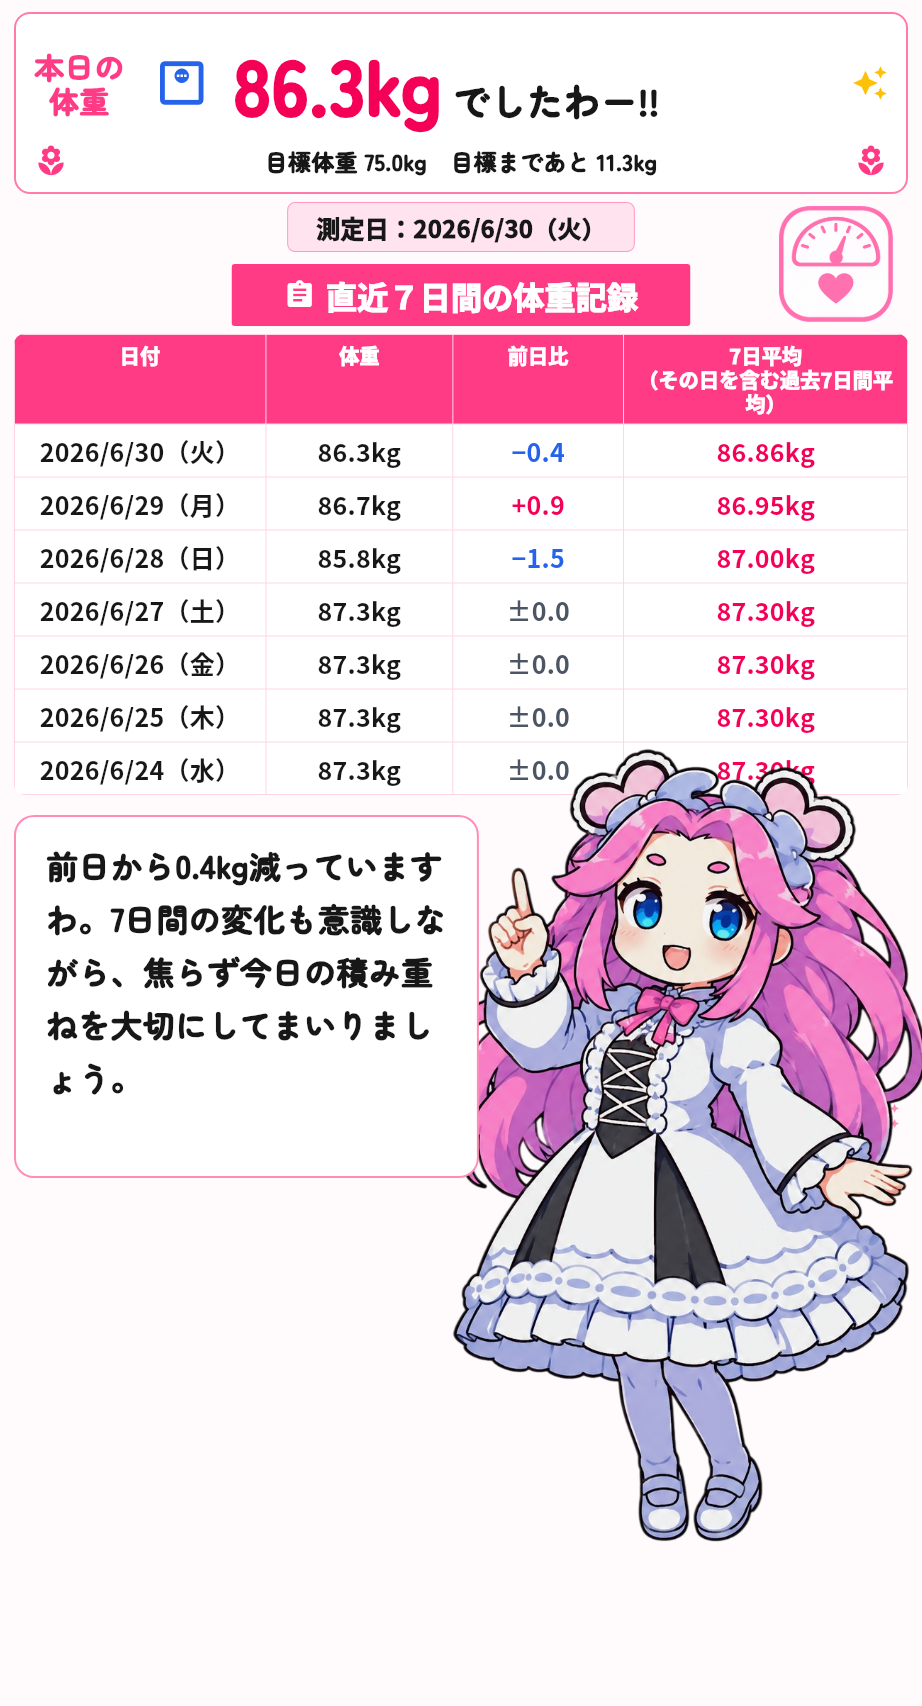
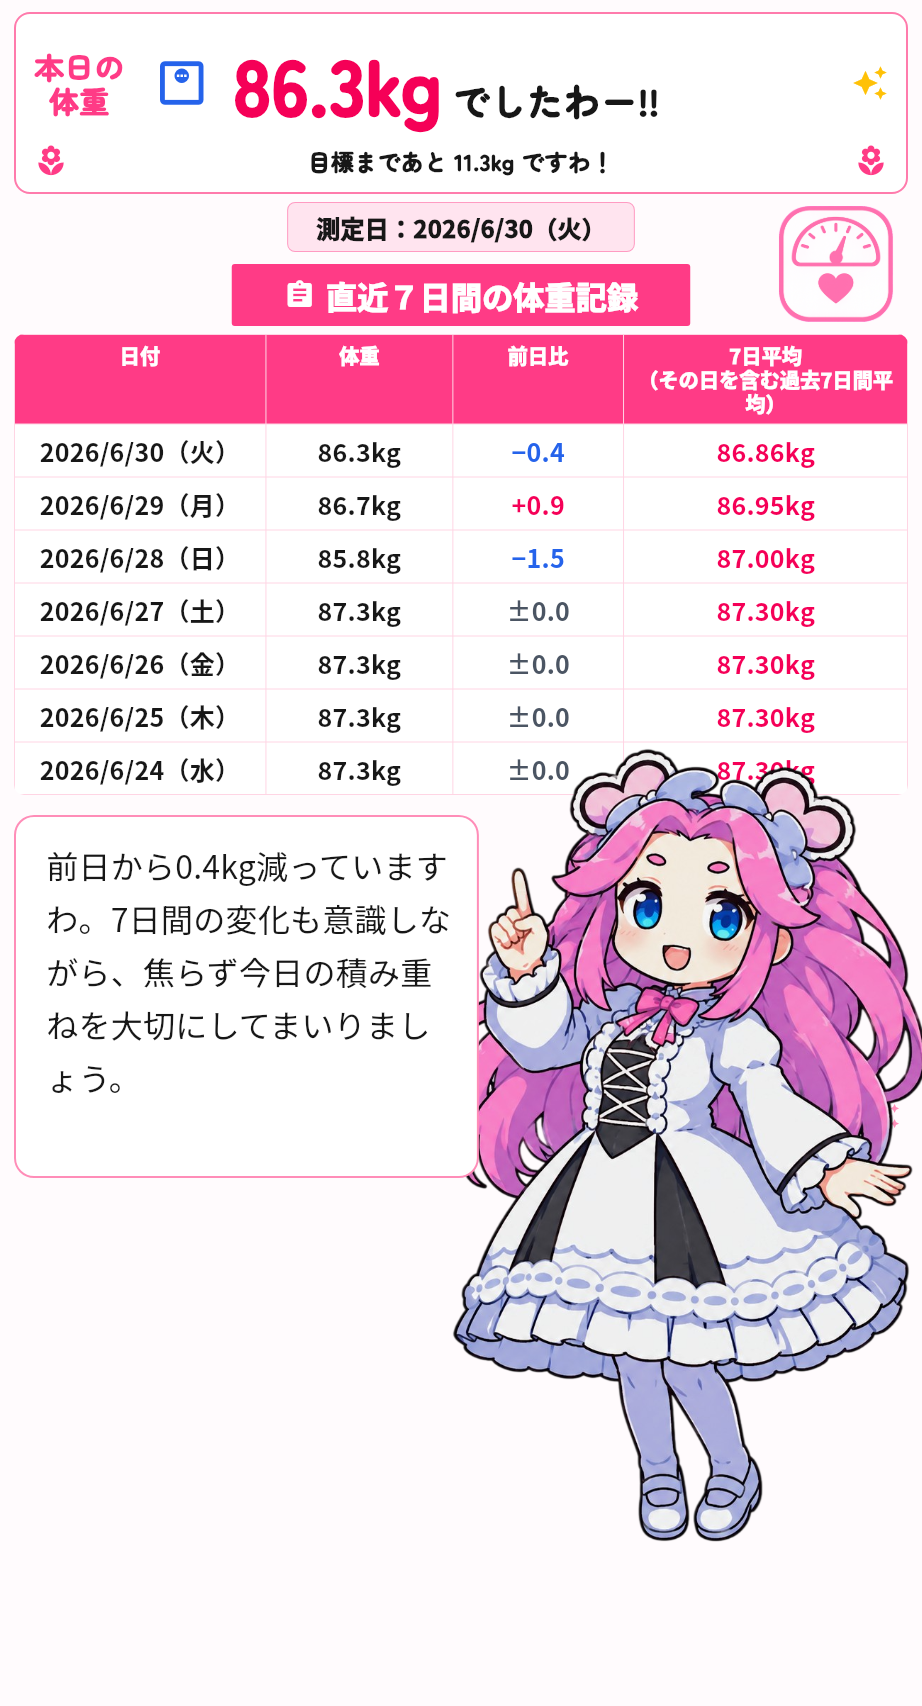
Use regular text for report comments

Changed region(s): [[0.0607, 0.4971, 0.4859, 0.6524], [0.3037, 0.0621, 0.6377, 0.1243], [0.6681, 0.0932, 0.6985, 0.1243]]

diff --git a/test/home_screen_golden_test.dart b/test/home_screen_golden_test.dart
@@ -445,8 +445,8 @@ void main() {
       'assets/images/character_report.png',
     );
     expect(find.text('本日の\n体重'), findsOneWidget);
-    expect(find.textContaining('目標体重 75.0kg'), findsOneWidget);
-    expect(find.textContaining('目標まであと 11.3kg'), findsOneWidget);
+    expect(find.textContaining('目標体重 75.0kg'), findsNothing);
+    expect(find.text('目標まであと 11.3kg ですわ！'), findsOneWidget);
     expect(find.textContaining('今日も記録えらいですわっ'), findsNothing);
     expect(find.text('直近７日間の体重記録'), findsOneWidget);
     expect(find.bySemanticsLabel('体重入力画面を開く'), findsOneWidget);
@@ -461,6 +461,20 @@ void main() {
           .style
           ?.fontSize,
       32,
+    );
+    expect(
+      tester
+          .widget<Text>(find.textContaining('前日から0.4kg減っていますわ'))
+          .style
+          ?.fontWeight,
+      FontWeight.w400,
+    );
+    expect(
+      tester
+          .widget<Text>(find.textContaining('前日から0.4kg減っていますわ'))
+          .style
+          ?.fontFamily,
+      isNull,
     );
     expect(find.textContaining('毎日の積み重ねが'), findsNothing);
     expect(find.textContaining('目標まであと'), findsOneWidget);

diff --git a/lib/screens/report_screen.dart b/lib/screens/report_screen.dart
@@ -224,8 +224,7 @@ class _ReportHeroHeader extends StatelessWidget {
               Icon(Icons.local_florist, color: _reportPink, size: 34 * scale),
               Expanded(
                 child: Text(
-                  '目標体重 ${targetWeightKg.toStringAsFixed(1)}kg　'
-                  '目標まであと ${remaining?.toStringAsFixed(1) ?? '--.-'}kg',
+                  '目標まであと ${remaining?.toStringAsFixed(1) ?? '--.-'}kg ですわ！',
                   textAlign: TextAlign.center,
                   style: TextStyle(
                     fontFamily: reportAccentFontFamily,
@@ -525,10 +524,9 @@ class _ViewerMessagePanel extends StatelessWidget {
       child: Text(
         aiComment,
         style: TextStyle(
-          fontFamily: reportAccentFontFamily,
           fontSize: 32 * scale,
           height: 1.65,
-          fontWeight: FontWeight.w900,
+          fontWeight: FontWeight.w400,
         ),
       ),
     );
